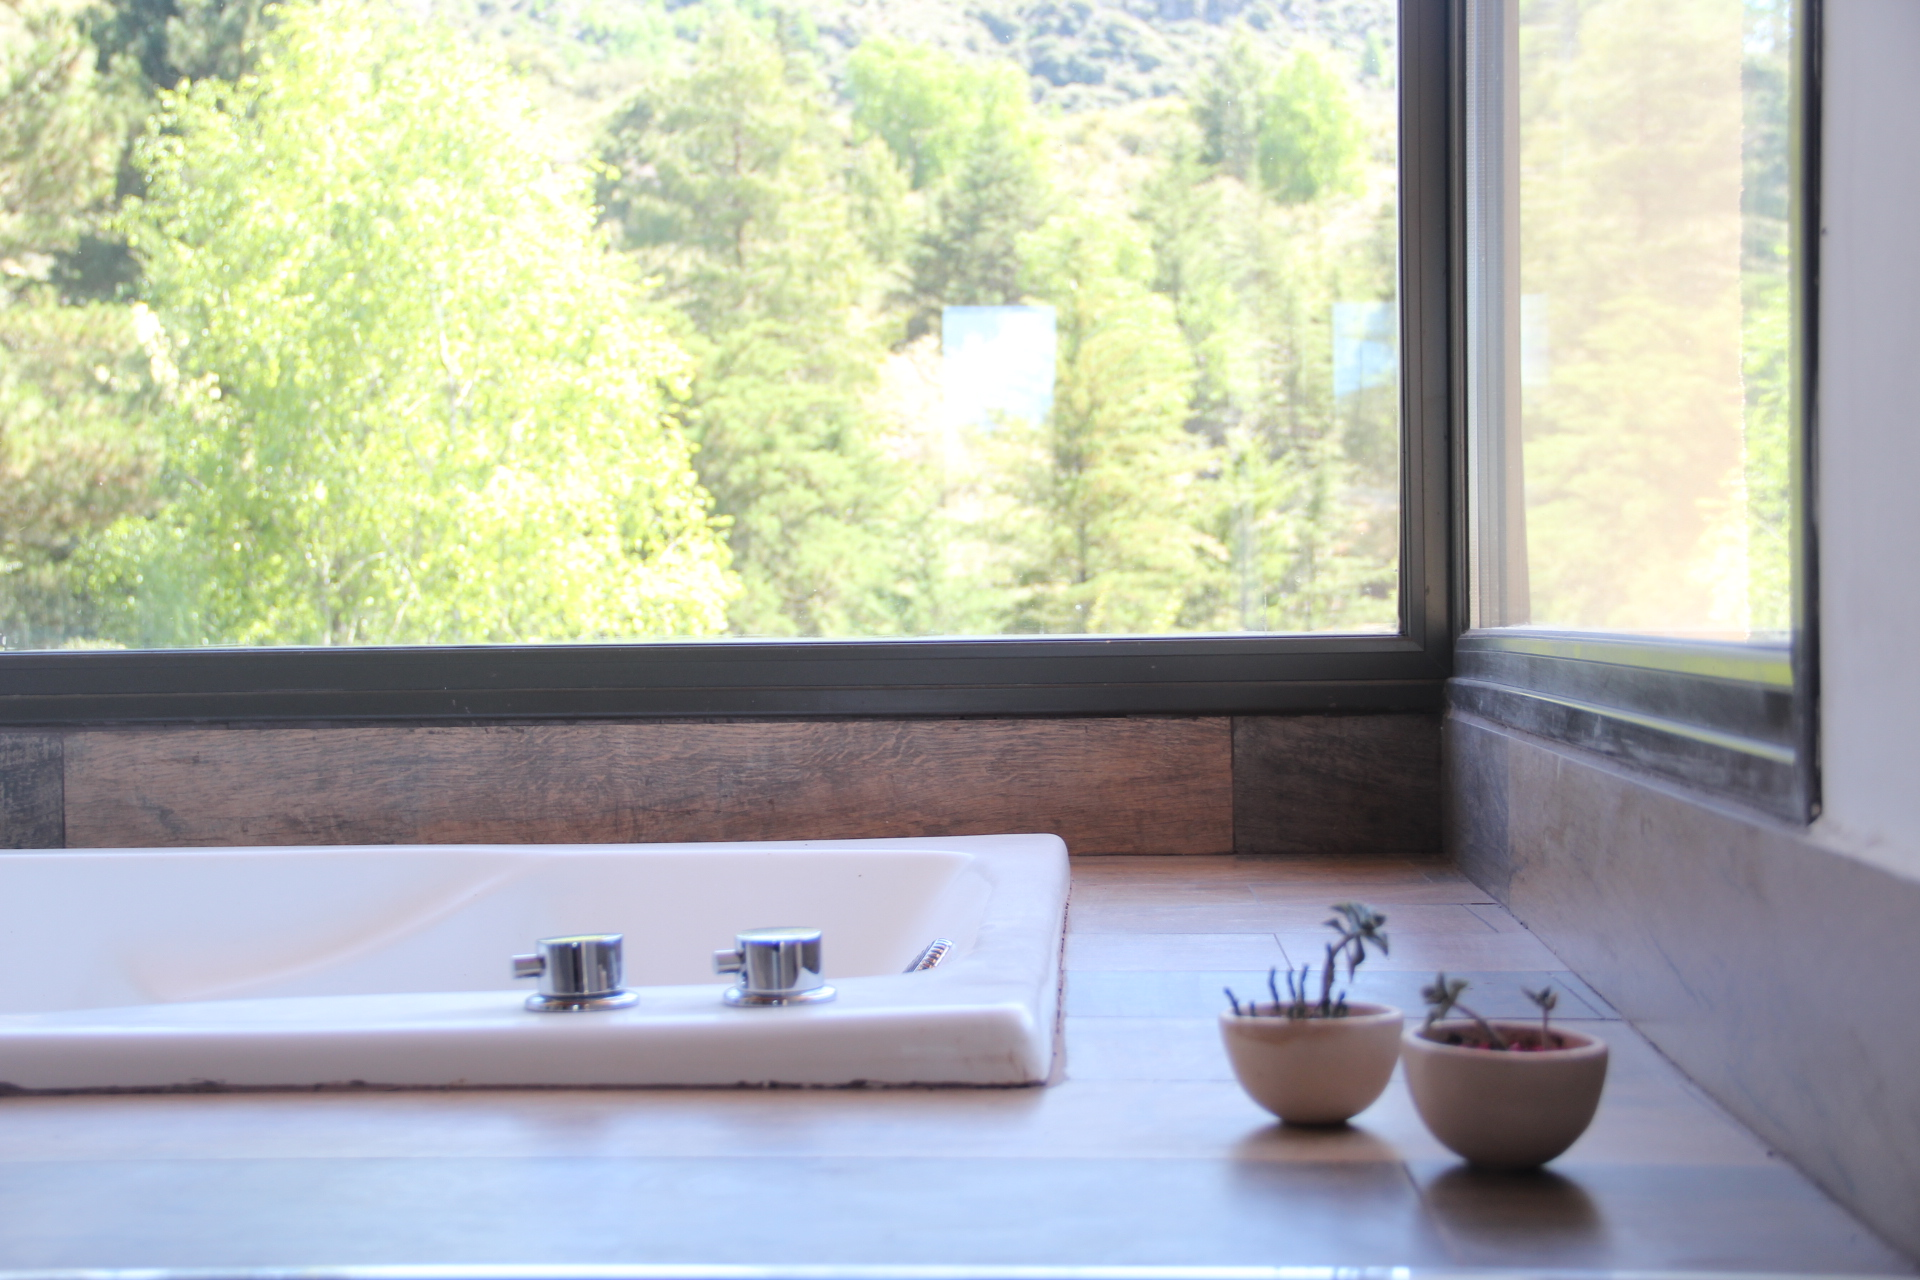
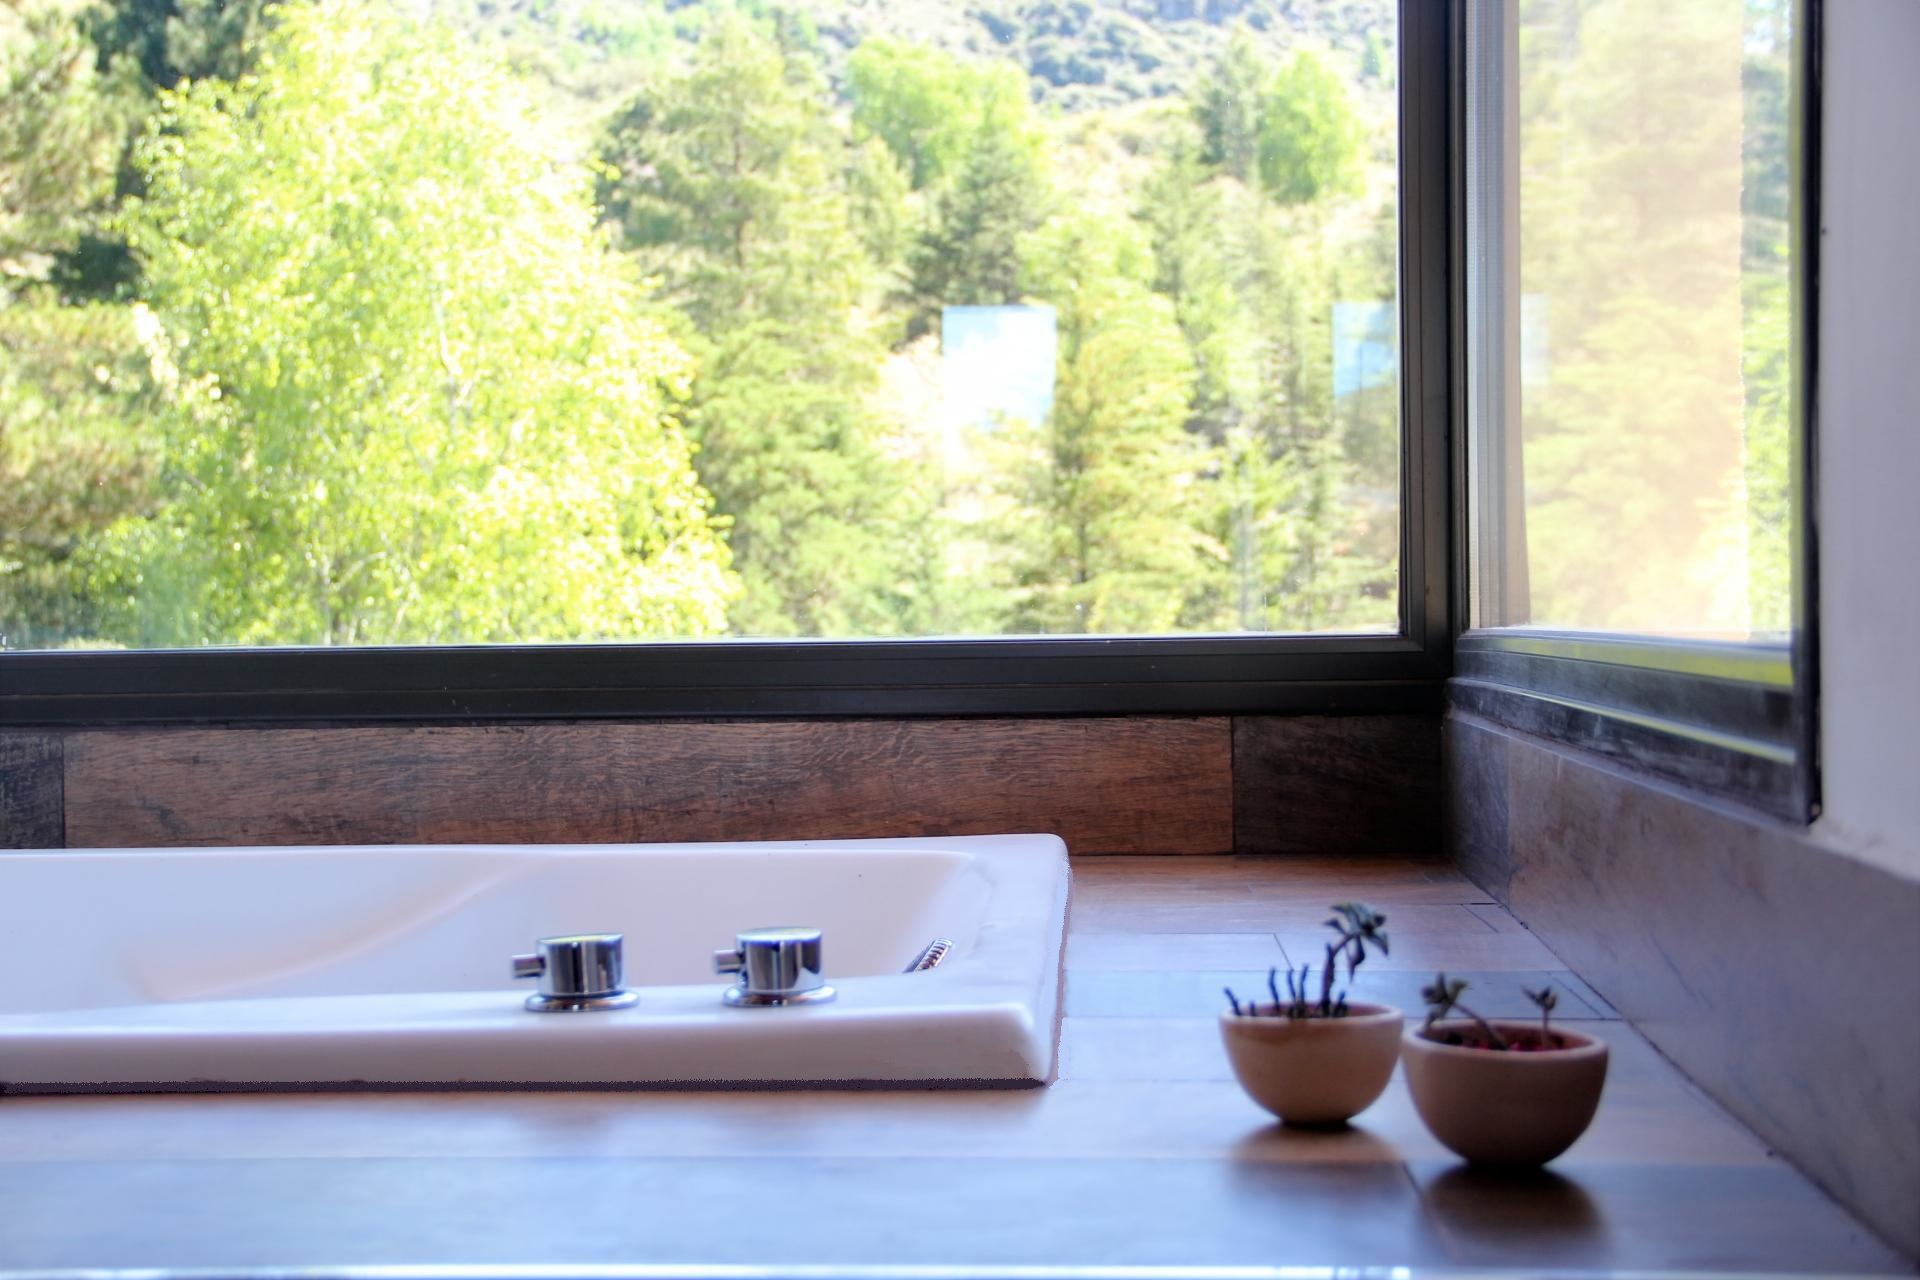
fix: eliminar imágenes no utilizadas de la galería

diff --git a/src/components/Galeria/Galeria.jsx b/src/components/Galeria/Galeria.jsx
@@ -8,14 +8,11 @@ const imageNames = [
   'IMG_4661.JPG',
   'IMG_4590.JPG',
   'IMG_4893.JPG',
-  'IMG_5048.JPG',
   'IMG_4557.JPG',
   'IMG_4848.JPG',
   'IMG_4834.JPG',
   'IMG_4883.JPG',
   'IMG_4902.JPG',
-  'IMG_4863.JPG',
-  'IMG_4954.JPG',
   'IMG_4786.JPG',
   'IMG_4821.JPG',
   'IMG_4930.JPG',
@@ -24,9 +21,7 @@ const imageNames = [
   'IMG_5033.JPG',
   'IMG_4816.JPG',
   'IMG_4939.JPG',
-  'IMG_4812.JPG',
   'IMG_5006.JPG',
-  'IMG_4459.JPG',
   'IMG_4467.JPG',
   'IMG_4508.JPG',
   'IMG_4533.JPG',
